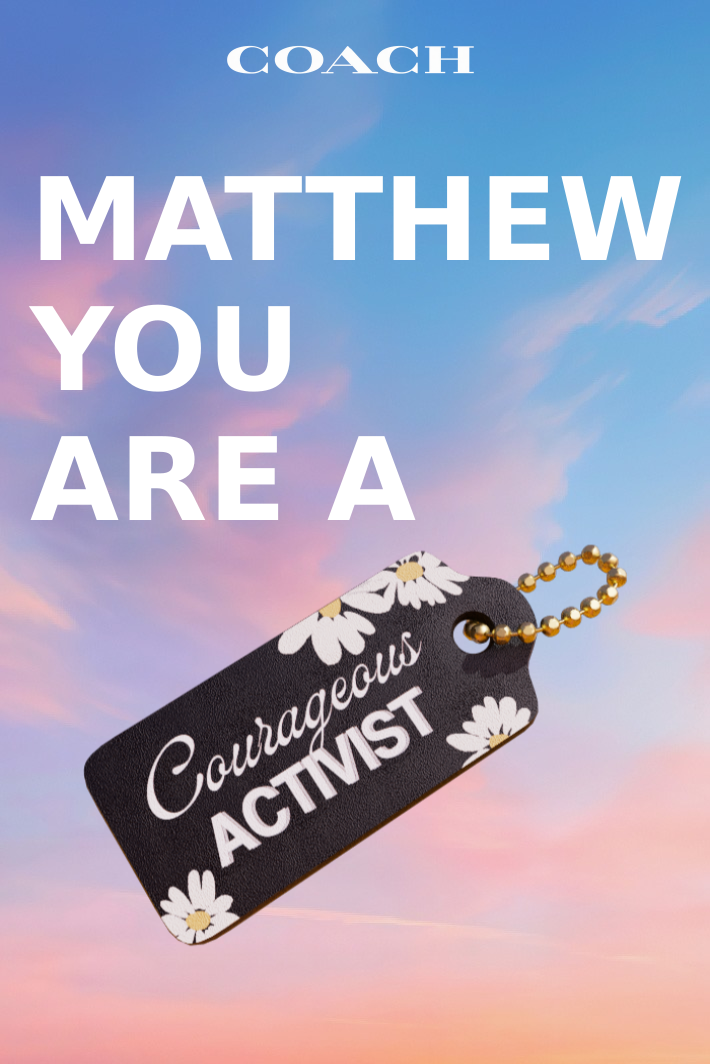
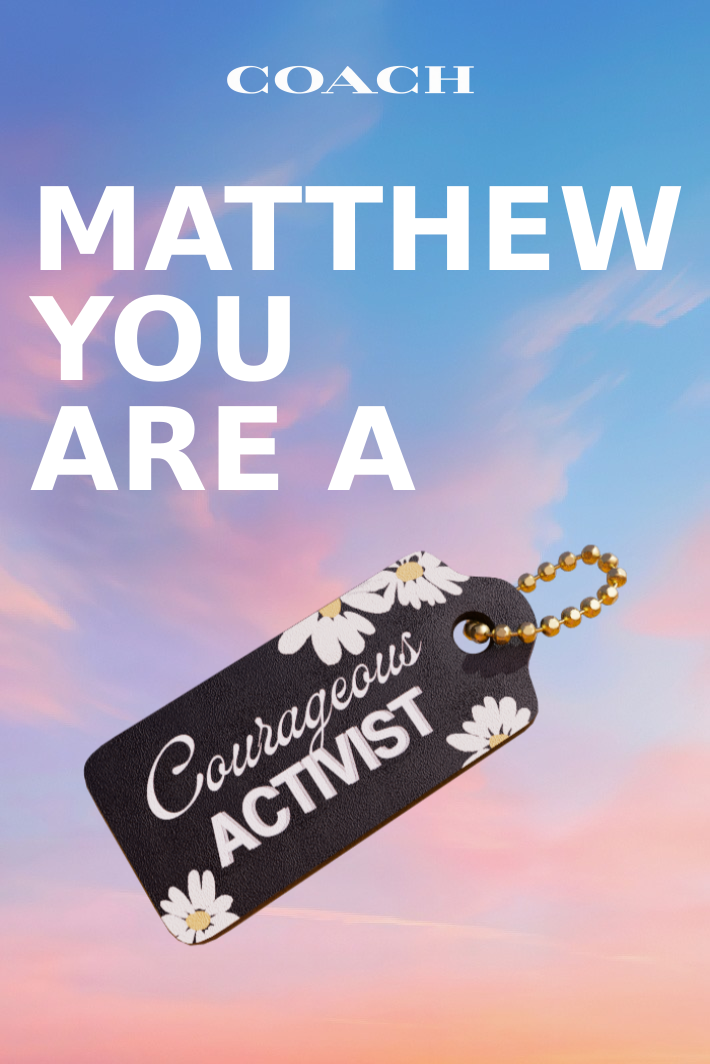
push

diff --git a/src/index.js b/src/index.js
@@ -41,16 +41,19 @@ async function Main(name, color) {
   }
 
   ctx.drawImage(cloudImg, 0, 0);
-  ctx.drawImage(logoImg, 225, 25);
+  ctx.drawImage(logoImg, 225, 45);
   ctx.drawImage(tagImg, canvas.width * 0.5 -710 * 0.8 * 0.5 , canvas.height * 0.7 -523 * 0.8 * 0.5, 710 * 0.8, 523 * 0.8);
 
   ctx.font = "bold 115px 'Helvetica LT Pro Bold'";
   ctx.fillStyle = 'white';
-  ctx.fillText(name, 30, 260);
 
+  let fontHeight = 110;
+  let base = 270
+
+  ctx.fillText(name, 30, base);
   ctx.font = "bold 115px 'Helvetica LT Pro Bold'";
-  ctx.fillText('YOU', 30, 390);
-  ctx.fillText('ARE A', 30, 520);
+  ctx.fillText('YOU', 30, base + fontHeight);
+  ctx.fillText('ARE A', 30, base + fontHeight * 2);
 
   return canvas.toBuffer();
 }
